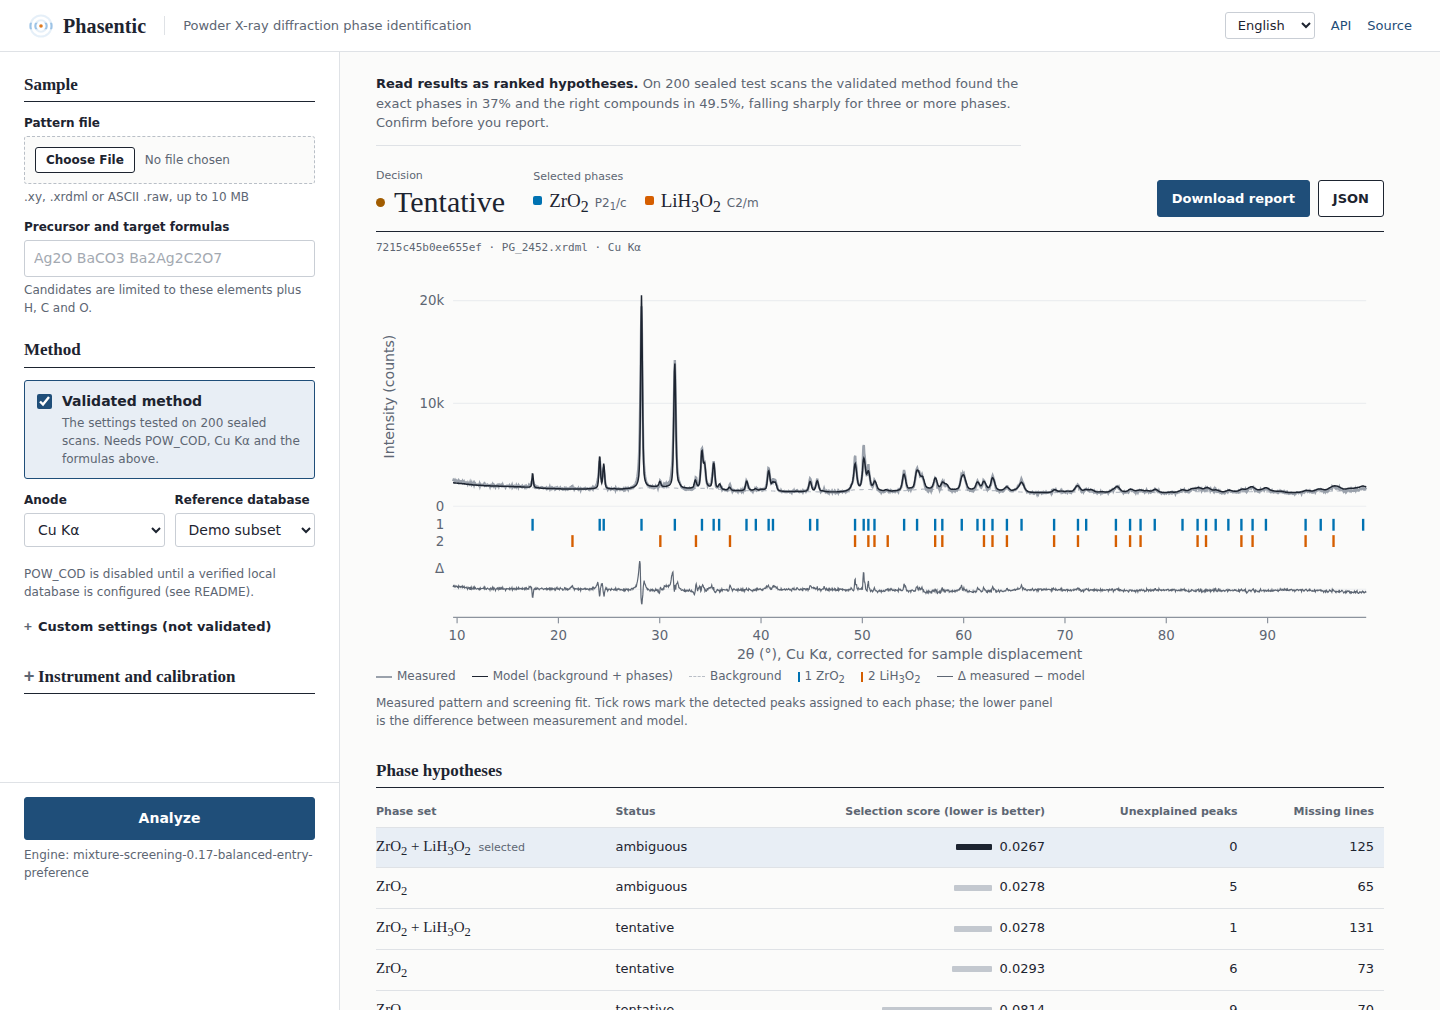
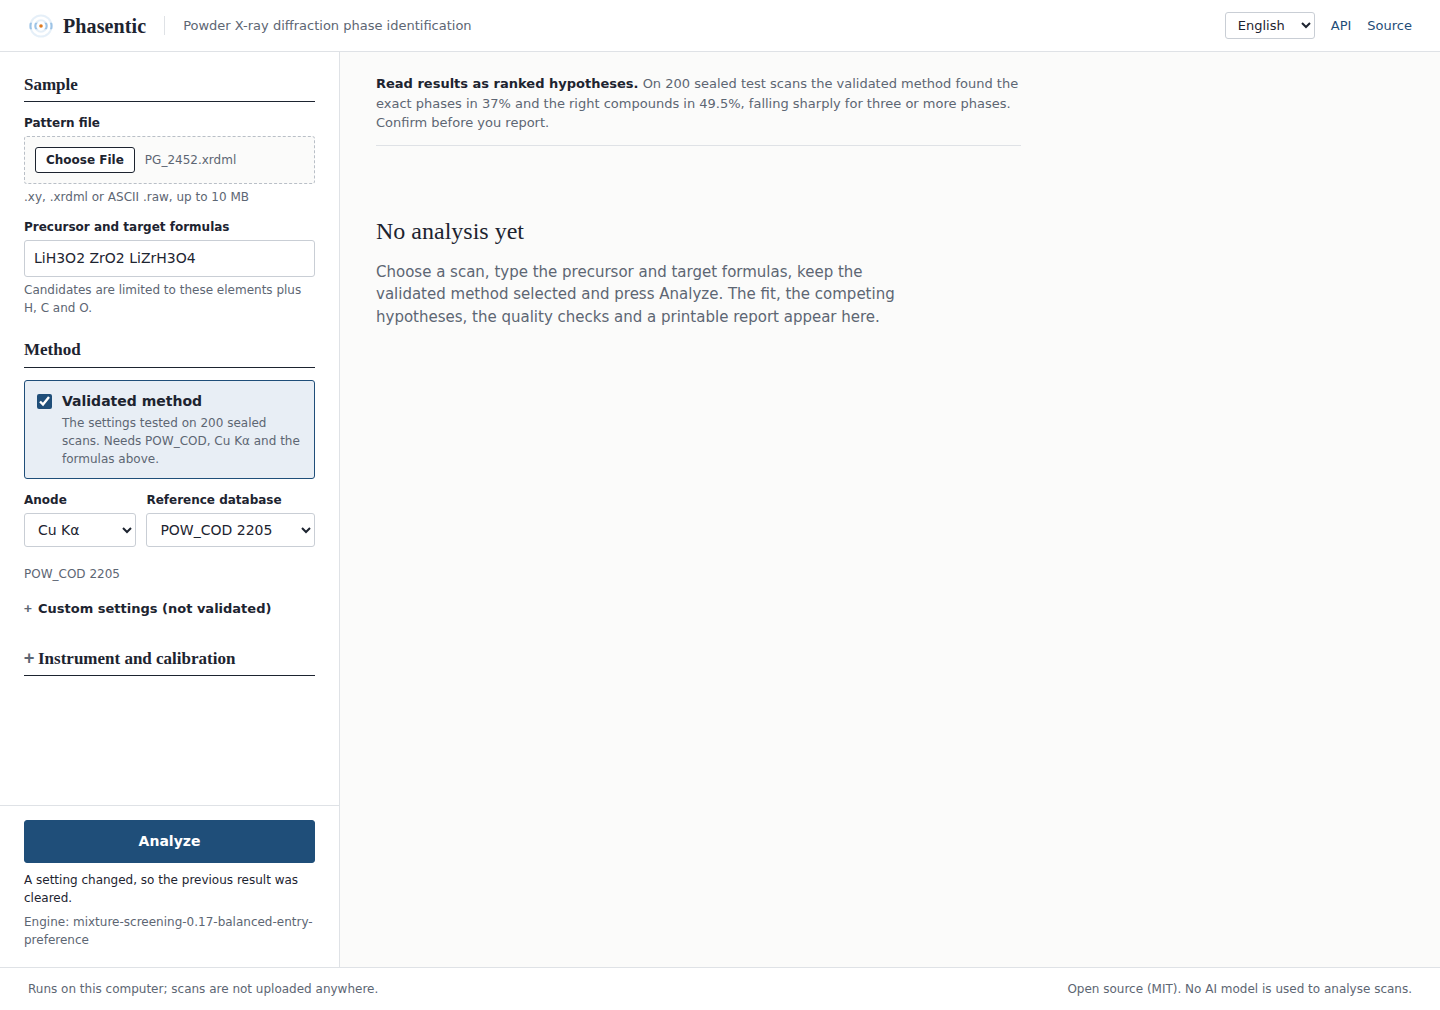
Update the README screenshot and widen the database selector
The screenshot now shows the inputs of the run it displays (PG_2452 with
its formulas, POW_COD 2205, validated method) instead of an empty form on
the demo database. The reference-database selector is wider so
"POW_COD 2205" is no longer cut off.

Assisted-by: Claude Code

diff --git a/src/phasentic/web/index.html b/src/phasentic/web/index.html
@@ -41,7 +41,7 @@
           <label class="choice"><input id="validated-preset" type="checkbox" checked />
             <span><b data-i18n="validatedPreset">Validated method</b><small data-i18n="validatedHint">The settings tested on 200 sealed scans. Needs POW_COD, Cu Kα and the formulas above.</small></span>
           </label>
-          <div class="pair">
+          <div class="pair source-pair">
             <label class="field"><span data-i18n="radiation">Anode</span>
               <select id="radiation" name="radiation">
                 <option value="Cu Ka">Cu Kα</option>

diff --git a/src/phasentic/web/styles.css b/src/phasentic/web/styles.css
@@ -53,6 +53,7 @@ small, .note { color: var(--muted); font-size: 12px; }
 .field { display: grid; gap: 4px; min-width: 0; }
 .field > span { font-size: 12px; font-weight: 600; color: var(--ink); }
 .pair { display: grid; grid-template-columns: 1fr 1fr; gap: 10px; }
+.pair.source-pair { grid-template-columns: minmax(0, 2fr) minmax(0, 3fr); }
 input, select, button { font: inherit; color: var(--ink); }
 input[type=text], input[type=number], select {
   width: 100%; min-width: 0; padding: 7px 9px; background: var(--sheet);
